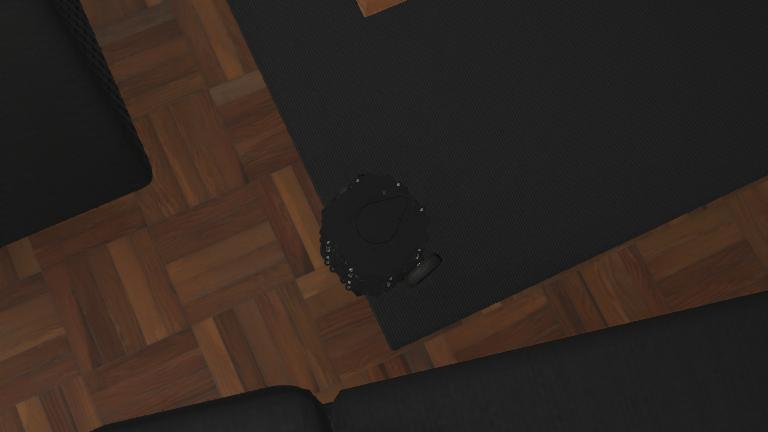
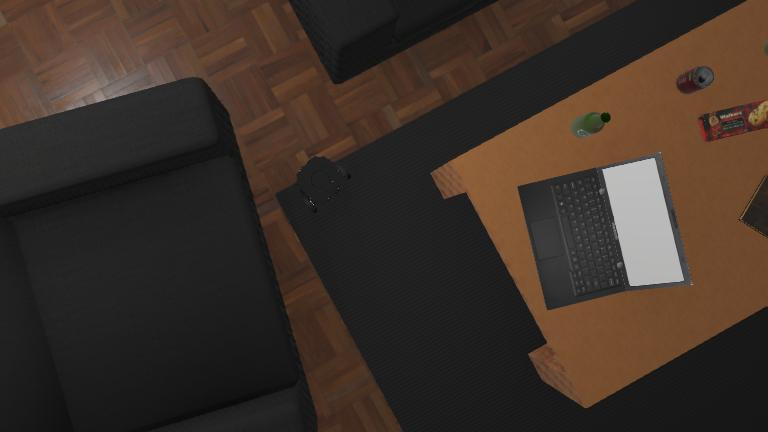
camera movements working

diff --git a/visualize.py b/visualize.py
@@ -1,74 +1,42 @@
-from controller import Robot, Motor, Lidar, Keyboard, LidarPoint
+#from controller import Robot, Motor, Lidar, Keyboard, LidarPoint, Camera
 import matplotlib.pyplot as plt
+from matplotlib.lines import Line2D
 import numpy as np
 from matplotlib.animation import FuncAnimation
+from matplotlib.patches import Circle
 
-# Constants
-MAX_SPEED = 6.67
+def plot_with_custom_colors(xy_pairs, highlight_indices, default_color='blue', highlight_color='red'):
+    """
+    Plots (x, y) pairs with custom colors for specified indices.
+    
+    Parameters:
+    - xy_pairs: List of (x, y) tuples.
+    - highlight_indices: List of indices of xy_pairs to highlight.
+    - default_color: Color for the default points.
+    - highlight_color: Color for the highlighted points.
+    """
+    # Separate x and y values
+    x_values, y_values = zip(*xy_pairs)
+    
+    # Plot default points
+    plt.scatter(x_values, y_values, color=default_color, label='Default Points')
+    
+    # Plot highlighted points
+    for index in highlight_indices:
+        if 0 <= index < len(xy_pairs):
+            plt.scatter(x_values[index], y_values[index], color=highlight_color, label='Highlighted Points')
+    
+    # Handle legend (to avoid duplicate labels for highlighted points)
+    handles, labels = plt.gca().get_legend_handles_labels()
+    by_label = dict(zip(labels, handles))  # Removes duplicates
+    plt.legend(by_label.values(), by_label.keys())
+    
+    plt.xlabel('X Coordinate')
+    plt.ylabel('Y Coordinate')
+    plt.title('Custom Colored Points')
+    plt.show()
 
-# Initialize Webots robot
-robot = Robot()
-
-# Setup devices (assuming device names and Webots setup)
-timestep = int(robot.getBasicTimeStep())
-leftMotor = robot.getDevice("left wheel motor")
-rightMotor = robot.getDevice("right wheel motor")
-leftMotor.setPosition(float('inf'))
-rightMotor.setPosition(float('inf'))
-leftMotor.setVelocity(0)
-rightMotor.setVelocity(0)
-lidar = robot.getDevice("LDS-01")
-lidar.enable(timestep)
-lidar.enablePointCloud()
-keyboard = robot.getKeyboard()
-keyboard.enable(timestep)
-
-# Initialize plot for LIDAR data visualization
-fig, ax = plt.subplots(figsize=(8, 8))
-lidar_data_line, = ax.plot([], [], 'r-')  # Red line for LIDAR data points
-ax.set_xlim(-1, 1)  # Assuming LIDAR range is normalized [-1, 1]
-ax.set_ylim(-1, 1)
-ax.set_title('LIDAR Readings')
-ax.set_xlabel('X Coordinate')
-ax.set_ylabel('Y Coordinate')
-ax.axis('equal')
-
-# Function to update LIDAR data in the plot
-def update_lidar_plot():
-    lidar_points = lidar.getRangeImage()  # Fetch LIDAR data
-    # Assuming lidar_points are polar coordinates, convert to Cartesian
-    angles = np.linspace(-np.pi, np.pi, len(lidar_points))
-    x = lidar_points * np.cos(angles)
-    y = lidar_points * np.sin(angles)
-    lidar_data_line.set_data(x, y)
-    plt.draw()
-    plt.pause(0.001)  # Pause briefly to update the plot
-
-# Main control loop
-while robot.step(timestep) != -1:
-    # Robot control code here (handling keyboard input, motor speed adjustments, etc.)
-    key = keyboard.getKey()
-    while keyboard.getKey() != -1: pass
-
-    if key == Keyboard.UP:
-        # Move forward
-        leftMotor.setVelocity(MAX_SPEED)
-        rightMotor.setVelocity(MAX_SPEED)
-    elif key == Keyboard.DOWN:
-        # Move backward
-        leftMotor.setVelocity(-MAX_SPEED)
-        rightMotor.setVelocity(-MAX_SPEED)
-    elif key == Keyboard.LEFT:
-        # Turn left
-        leftMotor.setVelocity(-MAX_SPEED)
-        rightMotor.setVelocity(MAX_SPEED)
-    elif key == Keyboard.RIGHT:
-        # Turn right
-        leftMotor.setVelocity(MAX_SPEED)
-        rightMotor.setVelocity(-MAX_SPEED)
-    else:
-        # Stop
-        leftMotor.setVelocity(0)
-        rightMotor.setVelocity(0)
-    # Update LIDAR visualization
-    update_lidar_plot()
+# Example usage
+xy_pairs = [(1, 2), (3, 4), (5, 6), (7, 8), (9, 10)]
+highlight_indices = [1, 3]  # Change the color of the 2nd and 4th points
+plot_with_custom_colors(xy_pairs, highlight_indices, default_color='blue', highlight_color='red')

diff --git a/controllers/keyboard_controller/keyboard_controller.py b/controllers/keyboard_controller/keyboard_controller.py
@@ -1,5 +1,6 @@
 from controller import Robot, Motor, Lidar, Keyboard, LidarPoint, Camera
 import matplotlib.pyplot as plt
+from matplotlib.lines import Line2D
 import numpy as np
 from matplotlib.animation import FuncAnimation
 from matplotlib.patches import Circle
@@ -29,17 +30,42 @@ keyboard.enable(timestep)
 
 # Initialize plot for LIDAR data visualization
 fig, ax = plt.subplots(figsize=(10, 10))
-lidar_data_line, = ax.plot([], [], 'bo', markersize=1)  # Red line for LIDAR data points
+lidar_data_line, = ax.plot([], [], 'bo', markersize=1)  # Blue line for LIDAR data points
 ax.set_xlim(-7, 7)  # Assuming LIDAR range is normalized [-1, 1]
 ax.set_ylim(-7, 7)
 ax.set_title('LIDAR Readings')
 ax.set_xlabel('X Coordinate')
 ax.set_ylabel('Y Coordinate')
 ax.axis('equal')
+ax.axis('off')
 
 # Add a black circle of size 5 at (0,0)
 circle = Circle((0, 0), 0.1, color='black', fill=False)  # 'fill=False' if you want it unfilled
+short_line = Line2D([0, 0], [0, 0.1], color='black')
+ax.add_line(short_line)
 ax.add_patch(circle)
+
+# # Function to update LIDAR data in the plot
+# def update_lidar_plot(color_index_dict):
+#     lidar_points = lidar.getRangeImage()  # Fetch LIDAR data
+#     # Assuming lidar_points are polar coordinates, convert to Cartesian
+#     angles = np.linspace(-np.pi, np.pi, len(lidar_points)) + np.pi / 2
+#     x = lidar_points * np.cos(angles) * -1
+#     y = lidar_points * np.sin(angles)
+#     #lidar_data_line.set_data(x, y)
+#     # Plot each point
+#     for i in range(len(x)):
+#         # Determine the color for the current point
+#         point_color = 'gray'
+#         for color, indices in color_index_dict.items():
+#             if i in indices:
+#                 point_color = color
+#                 break
+
+#         ax.plot(x[i], y[i], 'o', markersize=1, color=point_color)
+#     plt.draw()
+#     plt.pause(0.001)  # Pause briefly to update the plot
+
 
 # Function to update LIDAR data in the plot
 def update_lidar_plot():
@@ -51,6 +77,8 @@ def update_lidar_plot():
     lidar_data_line.set_data(x, y)
     plt.draw()
     plt.pause(0.001)  # Pause briefly to update the plot
+
+
 
 # Main control loop
 while robot.step(timestep) != -1:
@@ -68,20 +96,21 @@ while robot.step(timestep) != -1:
         rightMotor.setVelocity(-MAX_SPEED)
     elif key == Keyboard.LEFT:
         # Turn left
-        leftMotor.setVelocity(-MAX_SPEED)
-        rightMotor.setVelocity(MAX_SPEED)
+        leftMotor.setVelocity(-MAX_SPEED / 2)
+        rightMotor.setVelocity(MAX_SPEED / 2)
     elif key == Keyboard.RIGHT:
         # Turn right
-        leftMotor.setVelocity(MAX_SPEED)
-        rightMotor.setVelocity(-MAX_SPEED)
+        leftMotor.setVelocity(MAX_SPEED / 2)
+        rightMotor.setVelocity(-MAX_SPEED / 2)
     else:
         # Stop
         leftMotor.setVelocity(0)
         rightMotor.setVelocity(0)
 
+
     # Update LIDAR visualization
     update_lidar_plot()
-    
+
     # Get current number of object recognized
     number_of_objects = camera.getRecognitionNumberOfObjects()
     print("\nRecognized {} objects.\n".format(number_of_objects))
@@ -100,3 +129,6 @@ while robot.step(timestep) != -1:
             colors = obj.getColors()
             print("- Color {}/{}: {} {} {}".format(j + 1, obj.getNumberOfColors(), 
                                                     colors[3 * j], colors[3 * j + 1], colors[3 * j + 2]))
+
+    
+
